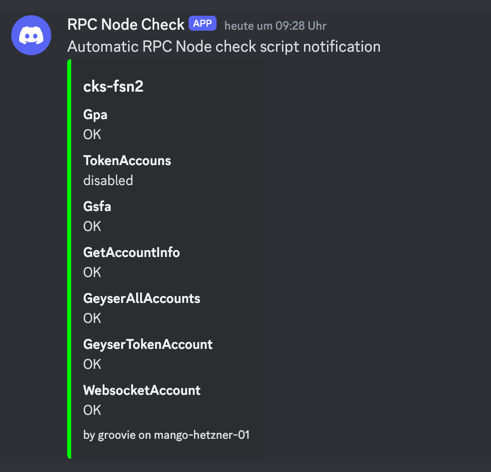
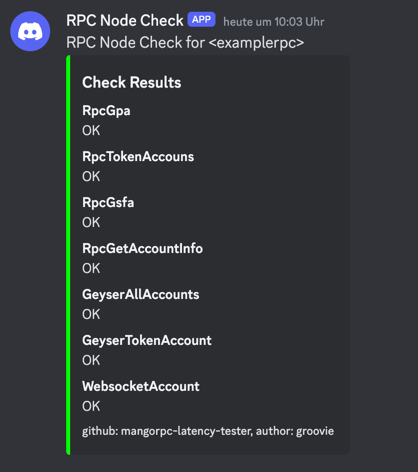
tweak discord

Changed region(s): [[0.0, 0.0, 0.8086, 0.9788]]

diff --git a/src/rpcnode_check_alive.rs b/src/rpcnode_check_alive.rs
@@ -190,18 +190,19 @@ fn create_discord_message(
 
     let body = json! {
         {
-            "content": "Automatic RPC Node check script notification",
+            "content": format!("RPC Node Check for <{}>", rpcnode_label),
+            "description": format!("executed on {}", hostname_executed.to_string_lossy()),
             "username": "RPC Node Check",
             "embeds": [
                 {
-                    "title": rpcnode_label,
+                    "title": "Check Results",
                     "description": "",
                     "color": status_color,
                     "fields":
                        fields
                     ,
                     "footer": {
-                        "text": format!("by groovie on {}", hostname_executed.to_string_lossy())
+                        "text": format!("github: mangorpc-latency-tester, author: groovie")
                     }
                 }
             ]
